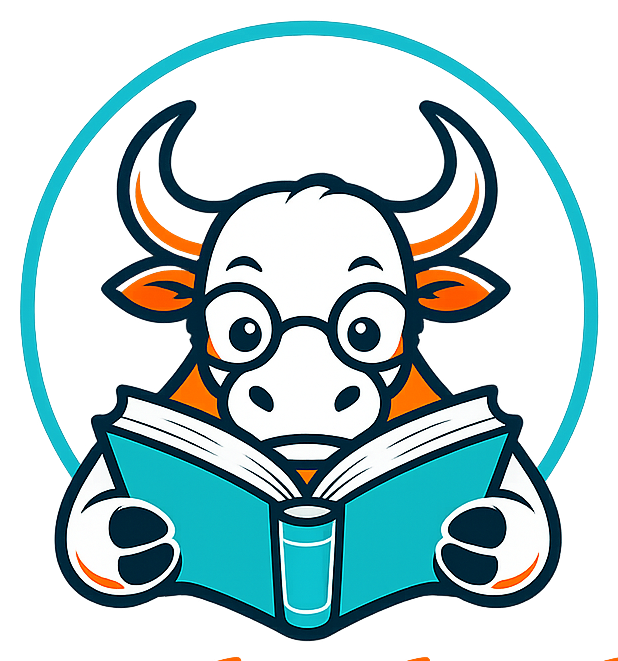
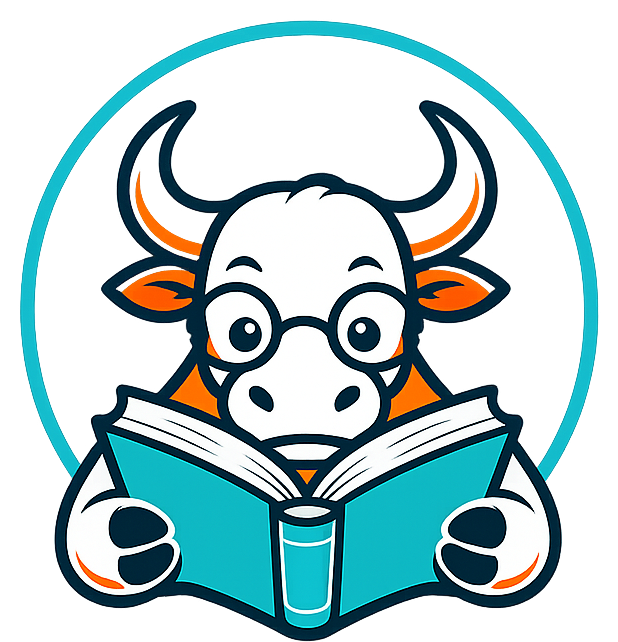
Add files via upload

diff --git a/index.html b/index.html
@@ -32,7 +32,7 @@ img { max-width: 100%; display: block; }
 .nav { position: sticky; top: 0; z-index: 500; background: rgba(255,255,255,.92); backdrop-filter: blur(8px); border-bottom: 1px solid var(--border); }
 .nav-inner { display: flex; align-items: center; justify-content: space-between; padding: 10px 32px; max-width: 1160px; margin: 0 auto; }
 .nav-logo { display: flex; align-items: center; gap: 10px; font-weight: 800; font-size: 20px; color: var(--orange); text-decoration: none; }
-.nav-logo .logo-mark { width: 66px; height: 66px; flex-shrink: 0; }
+.nav-logo .logo-mark { width: 76px; height: 76px; flex-shrink: 0; }
 .nav-logo .logo-mark img { width: 100%; height: 100%; object-fit: contain; }
 .nav-links { display: flex; align-items: center; gap: 32px; }
 .nav-links a { font-size: 14px; font-weight: 600; color: var(--mid); text-decoration: none; }
@@ -202,7 +202,7 @@ img { max-width: 100%; display: block; }
   <div class="wrap">
     <div class="sec-head">
       <div class="sec-eyebrow">The Problem</div>
-      <h2>Great writing doesn't sell books. Being found does.</h2>
+      <h2>Unseen books don't sell — no matter how good they are.</h2>
     </div>
     <div class="problem-list">
       <div class="problem-row pt"><span class="picon"><i class="ti ti-key"></i></span><p>Are you using the most profitable keywords for your book?</p></div>